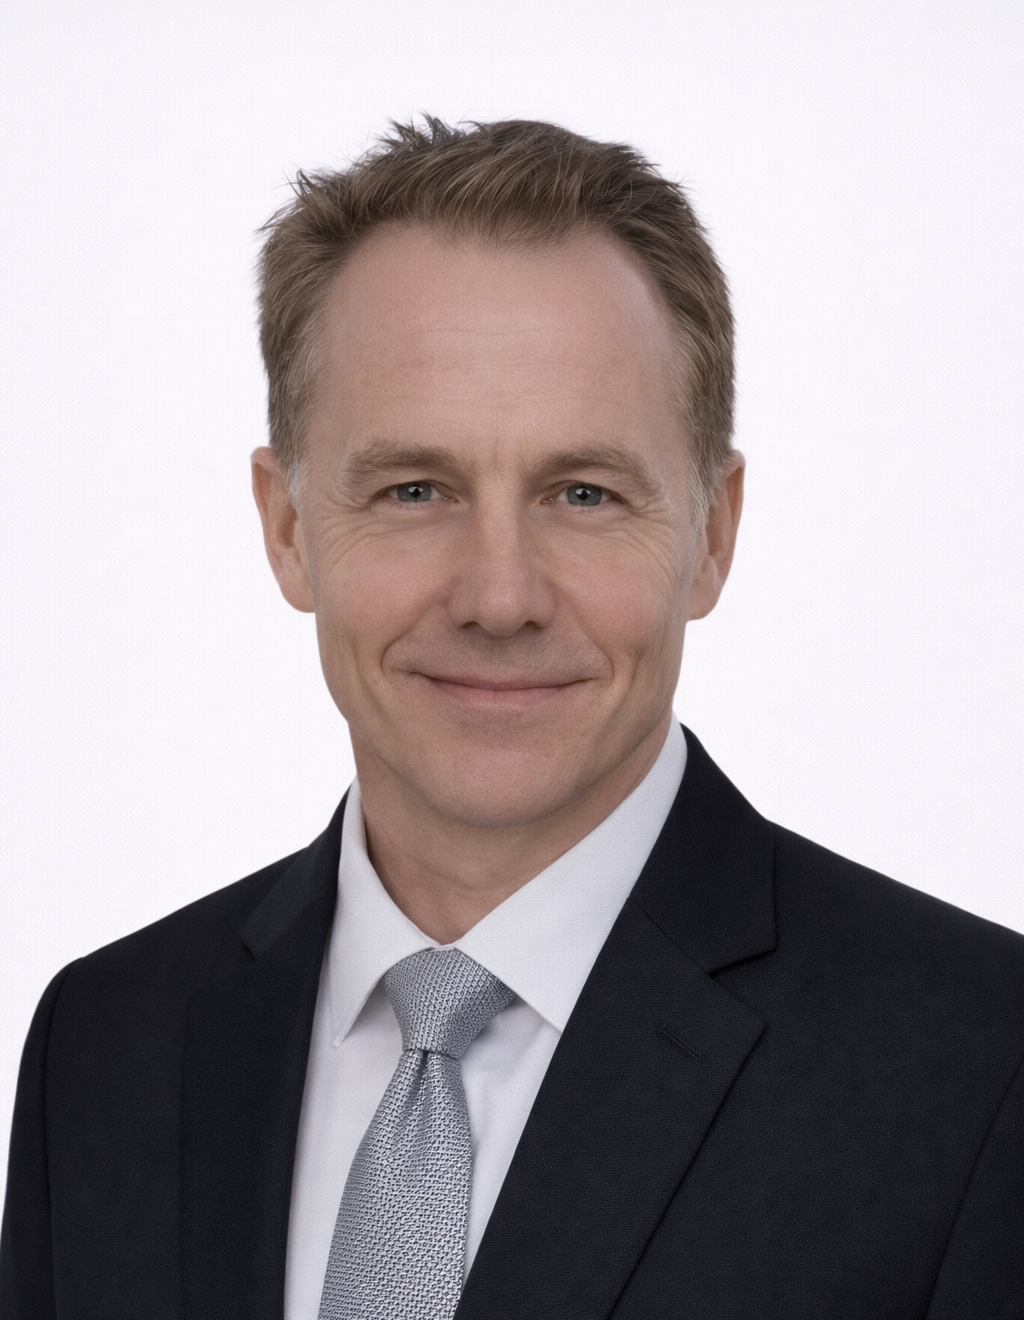
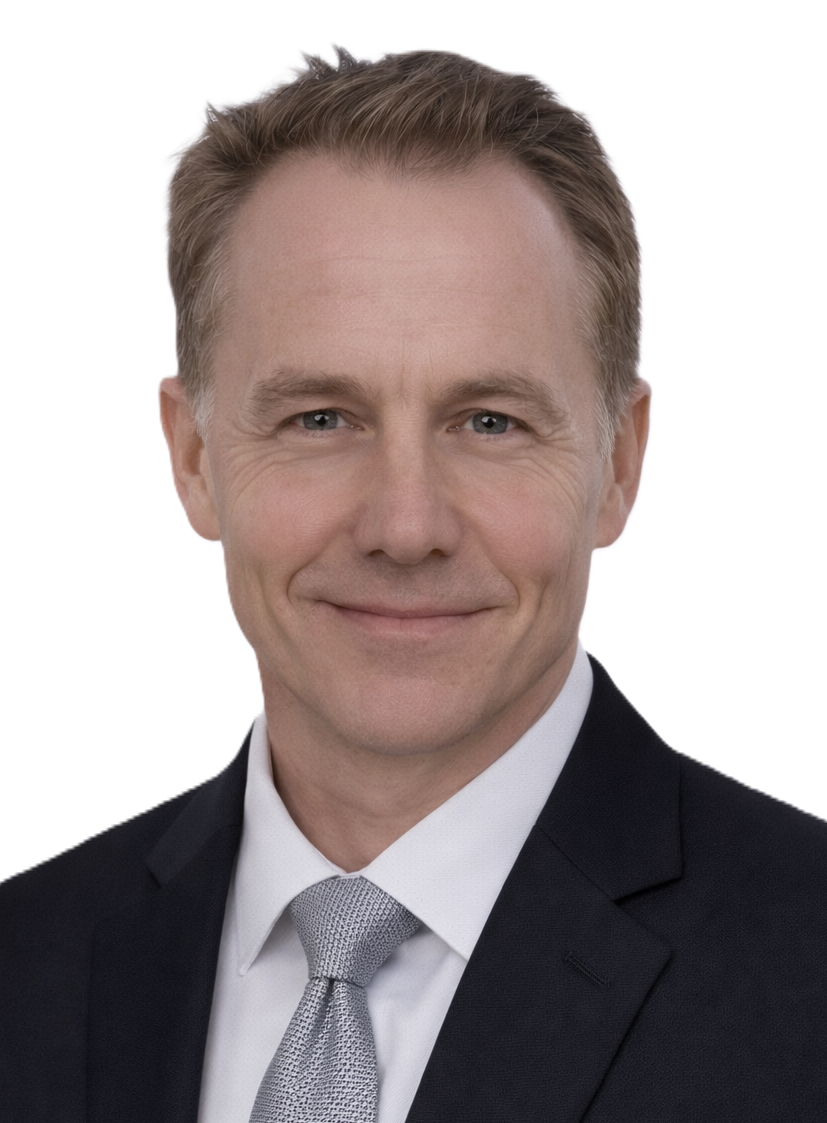
feat: Update team member images to JPG format for consistency and improved quality

diff --git a/data/team.ts b/data/team.ts
@@ -34,7 +34,7 @@ export const teamMembers: TeamMember[] = [
     shortBio: 'Mining Engineer with 13 years of hands-on experience across open pit and underground operations in Vietnam, Laos, and Cambodia.',
     bio: 'Mining Engineer with 13 years of hands-on experience across open pit and underground operations in Vietnam, Laos, and Cambodia. Strong technical capability supported by proficiency across industry-standard mining software and extensive experience in permitting and licensing mining projects in Vietnam.',
     email: 'Thanh.nguyen@dma-msv.com',
-    image: '/team/ThanhNguyenVan.png',
+    image: '/team/ThanhNguyenVan.jpg',
   },
   {
     name: 'Dr. Chris Swindells',
@@ -75,7 +75,7 @@ export const teamMembers: TeamMember[] = [
     shortBio: 'Human Resources professional with a master\'s degree in HR management, providing comprehensive HR services to Vietnamese and international organisations.',
     bio: 'Human Resources professional with a master\'s degree in human resources management, providing comprehensive HR services to Vietnamese and international organisations. Extensive experience in organisational design, role and job description development, recruitment and onboarding, development of company-wide HR policies and procedures, and holding senior leadership roles.',
     email: 'Hoan.le@dma-msv.com',
-    image: '/team/HoanLeTiNgoc.png',
+    image: '/team/HoanLeTiNgoc.jpg',
   },
   {
     name: 'Hung Nguyen Phuc',
@@ -84,7 +84,7 @@ export const teamMembers: TeamMember[] = [
     shortBio: 'Mechanical Engineer with a Bachelor of Science in Mechanical Engineering and experience across engineering and process operations.',
     bio: 'Mechanical Engineer with a Bachelor of Science in Mechanical Engineering and experience across engineering and process operations. Strong capability working to international standards including ASME and ASTM. Experience in project management, studies delivery, permitting and licensing approvals, and subcontractor management. Brings deep operational experience having worked as a senior maintenance leader at a world-class tungsten operation.',
     email: 'Hung.nguyen@dma-msv.com',
-    image: '/team/HungNguyenPhuc.png',
+    image: '/team/HungNguyenPhuc.jpg',
   },
   {
     name: 'Tien Dinh Van',
@@ -93,7 +93,7 @@ export const teamMembers: TeamMember[] = [
     shortBio: 'Construction and civil works professional with a Master\'s degree in Transport Works Engineering and a strong background in infrastructure and civil design.',
     bio: 'Construction and civil works professional with a Master\'s degree in Transport Works Engineering and a strong background in infrastructure, transport, and civil design. Extensive experience in project and contract management, including delivery of multi-million-dollar construction contracts under FIDIC forms, management of consultants across Pre-FS, FS, detailed and construction design phases, and oversight of contractors and subcontractors during construction execution.',
     email: 'Tien.dinh@dma-msv.com',
-    image: '/team/TienDinhVan.png',
+    image: '/team/TienDinhVan.jpg',
   },
   {
     name: 'PhD. Minh Dinh Huu',
